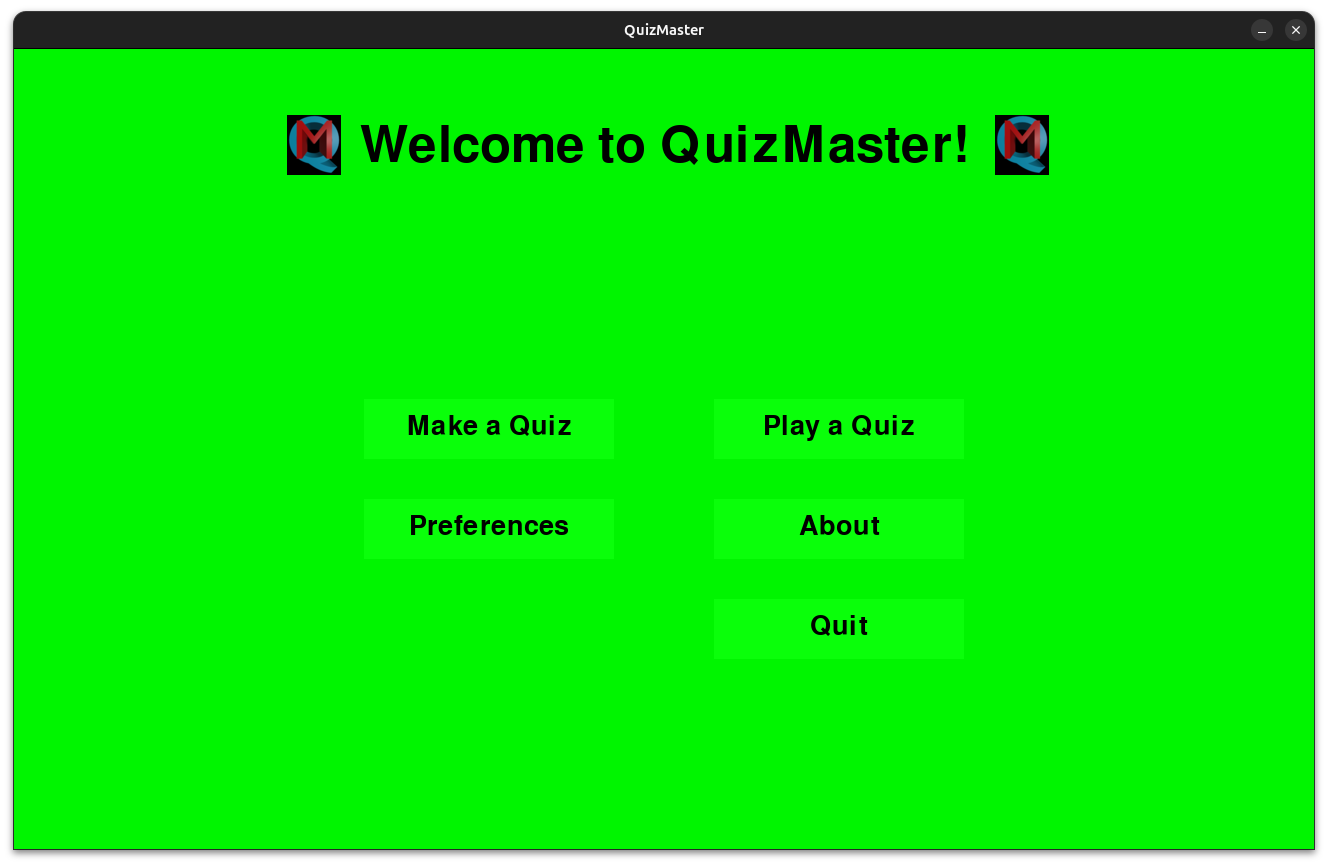
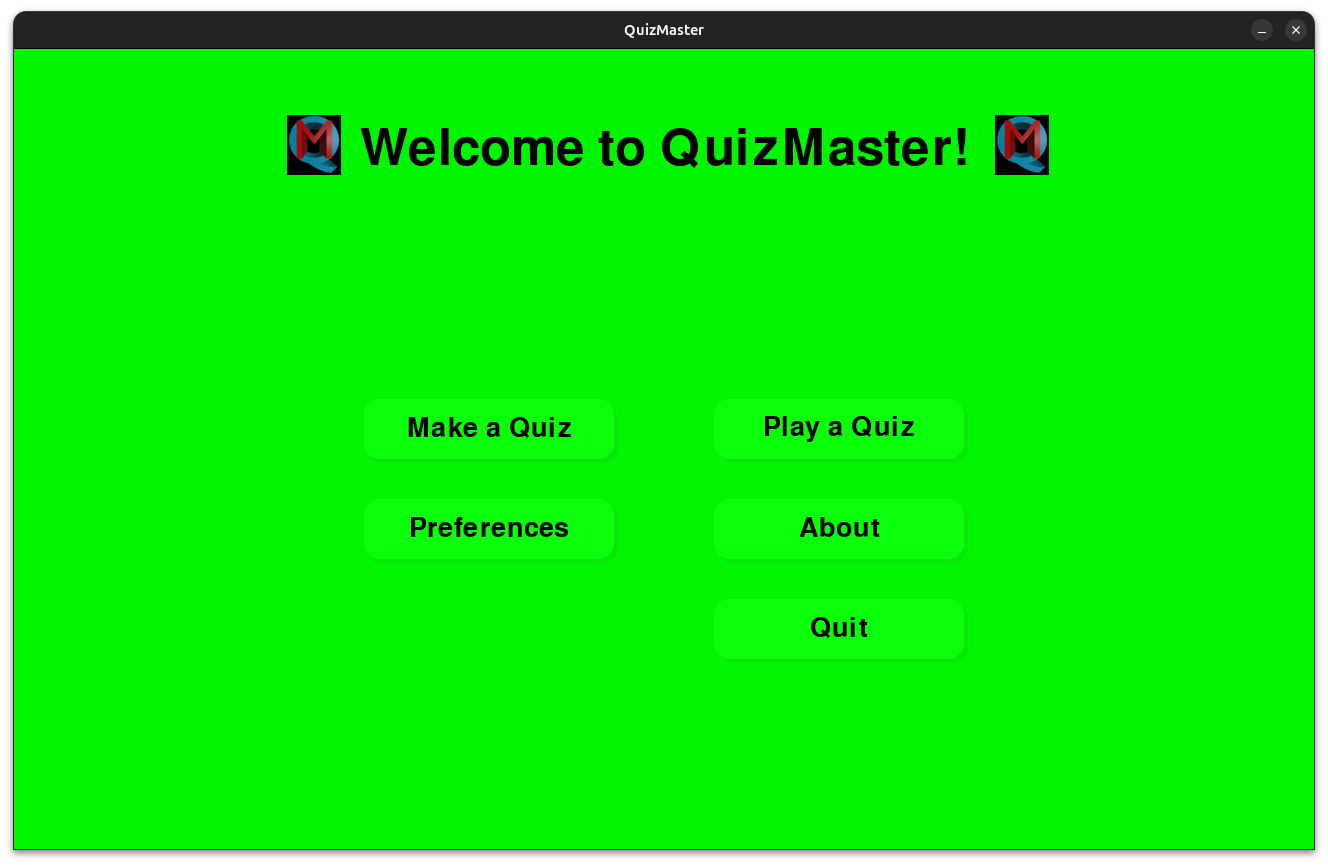
Update Readme and screenshots

diff --git a/modules/elements.py b/modules/elements.py
@@ -60,7 +60,7 @@ class Button:
         self.rect = pygame.Rect(position[0], position[1], width, height)
         self.text_colour = text_colour
 
-    def draw(self, screen, colour, border_radius=20, shadow_offset=5):
+    def draw(self, screen, colour, border_radius=15, shadow_offset=4):
 
         h, s, v = colorsys.rgb_to_hsv(colour[0], colour[1], colour[2])
         v = max(0, v - 25)

diff --git a/quiz.py b/quiz.py
@@ -22,7 +22,6 @@ from modules.persistence import *
 from modules.checker import *
 from modules.elements import *
 from modules.gameModes import *
-from modules.MathQuizMaker import *
 from modules.searchQuiz import search_str_in_file
 from modules.otherWindows import about
 from modules.pygameTextInput.pygame_textinput import TextInputVisualizer

diff --git a/README.md b/README.md
@@ -5,8 +5,21 @@
  ![](images/logo1.png)
 
 QuizMaster is a fun game testing your knowledge and cognitive ability in many different areas. 
-If you know how to copy and paste text to the command line interface, and can copy or clone this repository, then you're in. 
+ If you can copy and paste text into the command line interface and clone a repository, you're all set to dive in!
 If you've got some useful knowledge on top of this, you can create a quiz on it with `QuizCreator` and create a [pull request](https://docs.github.com/en/pull-requests/collaborating-with-pull-requests/creating-a-pull-request).
+
+
+## Table of Contents
+
+- [Usage](#usage)
+  - [Installation](#installation)
+  - [Running QuizMaster](#running-quizmaster)
+  - [Preferences](#preferences)
+  - [Quiz Creator](#quiz-creator)
+- [Tutorials](#tutorials)
+- [Other QuizMaster Versions](#other-quizmaster-versions)
+- [Summary](#summary)
+- [Future Work](#future-work)
 
 ## Usage
 
@@ -14,7 +27,7 @@ If you've got some useful knowledge on top of this, you can create a quiz on it 
 
 1. Clone this repository via terminal: ```git clone --recurse-submodules https://github.com/hermonochy/QuizMaster```
 
-  However, if you would not like example quizzes along with it, remove the `--recurse-submodules` flag: ```git clone https://github.com/hermonochy/QuizMaster```
+  If you prefer not to include the example quizzes, you can omit the `--recurse-submodules` flag: ```git clone https://github.com/hermonochy/QuizMaster```
 
 2. Enter the directory containing the game executable: ```cd QuizMaster```
 
@@ -35,15 +48,19 @@ Run the included script `./setup.sh` (Linux) or `setup.bat` script for Windows (
 
 In a command line window,  in Linux, enter `./run.sh` and `run.bat` for Windows.
 
- Press either `Play a Quiz` or `Make a Quiz` in the homepage. `Make a Quiz` will open [QuizCreator](#quiz-creator), `Play a Quiz` will start the game (see below).
+ You'll be greeted by the homepage where you have the option to `Play a Quiz` or `Make a Quiz`. Selecting `Make a Quiz` opens `QuizCreator` while `Play a Quiz` takes you into the game. To select a quiz, simply type the theme you would like to play. Alternativly, you can also select a random quiz or a general knowledge quiz, which takes random questions from random quizzes to create a new and unique quiz. Afterwards, it will request you select a game mode ([see below](#game-modes)).
 
 ![](images/QM1.png)
 
 #### Game modes
 
+Various game modes exist to allow the user to test different strengths in different areas. From the classic countdown to speed runs that challenge your quick thinking, each mode is designed to provide a unique experience. Below are brief overviews of the current game modes.
+
+![](images/QM3.png)
+
 ##### Classic Game
 
-The classic game mode allows you to answer questions with a countdown timer. Your score is recorded, and at the end, it will give advice appropriate to the score. Scores greater than 80% are above average, between 80% and 40% is average, and less than 40% is below average. You can either press the number allocated to the answer or, if you don't have a keyboard, click on the answer. Remember, you have a time limit!
+The classic game mode allows you to answer questions with a countdown timer. Your score is recorded, and at the end, it will give advice appropriate to the score. Scores greater than 80% are above average, between 80% and 40% is average, and less than 40% is below average. Players can choose answers using keyboard inputs allocated to the answer, or mouse clicks, but be mindful of the timer!
 
 ##### Classic V2
 
@@ -51,15 +68,15 @@ Similar to classic, the time limit of classic V2 is the absolute time, rather th
 
 ##### Speed Run
 
-The speed run game mode challenges you to answer all questions correctly in the shortest time possible. If you answer a question incorrectly, you must redo the question. If all lives are lost, you must redo the entire quiz. The game keeps a stopwatch running throughout, and your final time is displayed at the end. Currently it is the most difficult game mode.
+Race against the clock to answer all questions correctly as fast as possible! An incorrect answer forces you to retry the question, and losing all lives results in starting the quiz anew. Your total time is recorded to push for improvement in future attempts. Currently, it's the most challenging game mode.
 
 ##### Survival
 
-The Survival game mode is a recent addition to QuizMaster. In this mode, players have a limited number of lives to answer questions correctly. Each incorrect answer costs a life, and the game ends when the player loses all their lives or answers all questions correctly. The objective is to survive as long as possible by maintaining accuracy throughout.
+In Survival mode, players are allotted a limited number of lives to complete the quiz. Each incorrect response results in a life deduction, and the game concludes when you either exhaust your lives or answer all questions correctly. The objective is to survive as long as possible by maintaining accuracy throughout.
 
 ##### Practice
 
-The practice mode offers a relaxed environment for users to engage with quiz questions at their own pace. Immediate feedback is provided, notifying the player if the answer was correct. Participants can opt to reveal the correct answer or end the quiz at any time. Scores are not recorded.
+A more laid-back approach, this mode allows you to engage in practice sessions at your own pace. You receive immediate feedback on your answers and can choose to continue or end the quiz whenever you wish. Scores are not tracked in this mode.
 
 ![](images/QM4.png)
 
@@ -74,7 +91,8 @@ There is a preferences window where you can change the song, volume, and backgro
 ![](images/QM2.png)
 
 1. Run quizcreator by opening QuizMaster and clicking `Make a Quiz`. You can also start it separately with `./quizcreator` on the command line interface in Linux.
-2. Use it to manage and create quiz questions. The `Add` button can add questions. As it is multiple choice, you need to give a correct answer and a set of wrong answers, separated by commas. Further instructions can be viewed via the implemented tooltips.
+2. Use it to manage and create quiz questions. Click `Add` to include multiple choice questions and ensure you specify the correct answer followed by wrong answers separated by commas. Tooltips provide helpful guidance throughout the process.
+3. Once you have saved it, using the `Save` button or `Save As` for an entirely new quiz, you can easily test-play it using the `play` button, which opens the quiz in practice mode.
 
 ##### Adding Arguments
 
@@ -153,9 +171,9 @@ Each version of QuizMaster caters to specific needs and environments, ensuring t
 
 ---
 
-Enjoy the combined functionalities of creating quizzes and playing quiz games with the Quiz Creator and Quiz Game applications provided in this code! Please add some extra quizzes for others. This repository welcomes contributions from everyone via pull request. 
+Engage with QuizMaster, where creating and playing quizzes is fun and interactive! We welcome contributions to enhance this project further—if you have new quizzes to share, please submit a pull request to [the submodule for quizzes](https://github.com/QuizMaster-world/Quizzes). 
 
-*Warning: Many of the example quizzes are written by AI or schoolchildren, so may contain incorrect or silly information.*
+*Please note: Some example quizzes may contain inaccuracies, as they have been contributed by AI or younger audiences from the [Oxcobu](https://oxcobu.github.io/) branch at [Cheney School](https://github.com/Cheney-School).*
 
 ## Future Work
 
